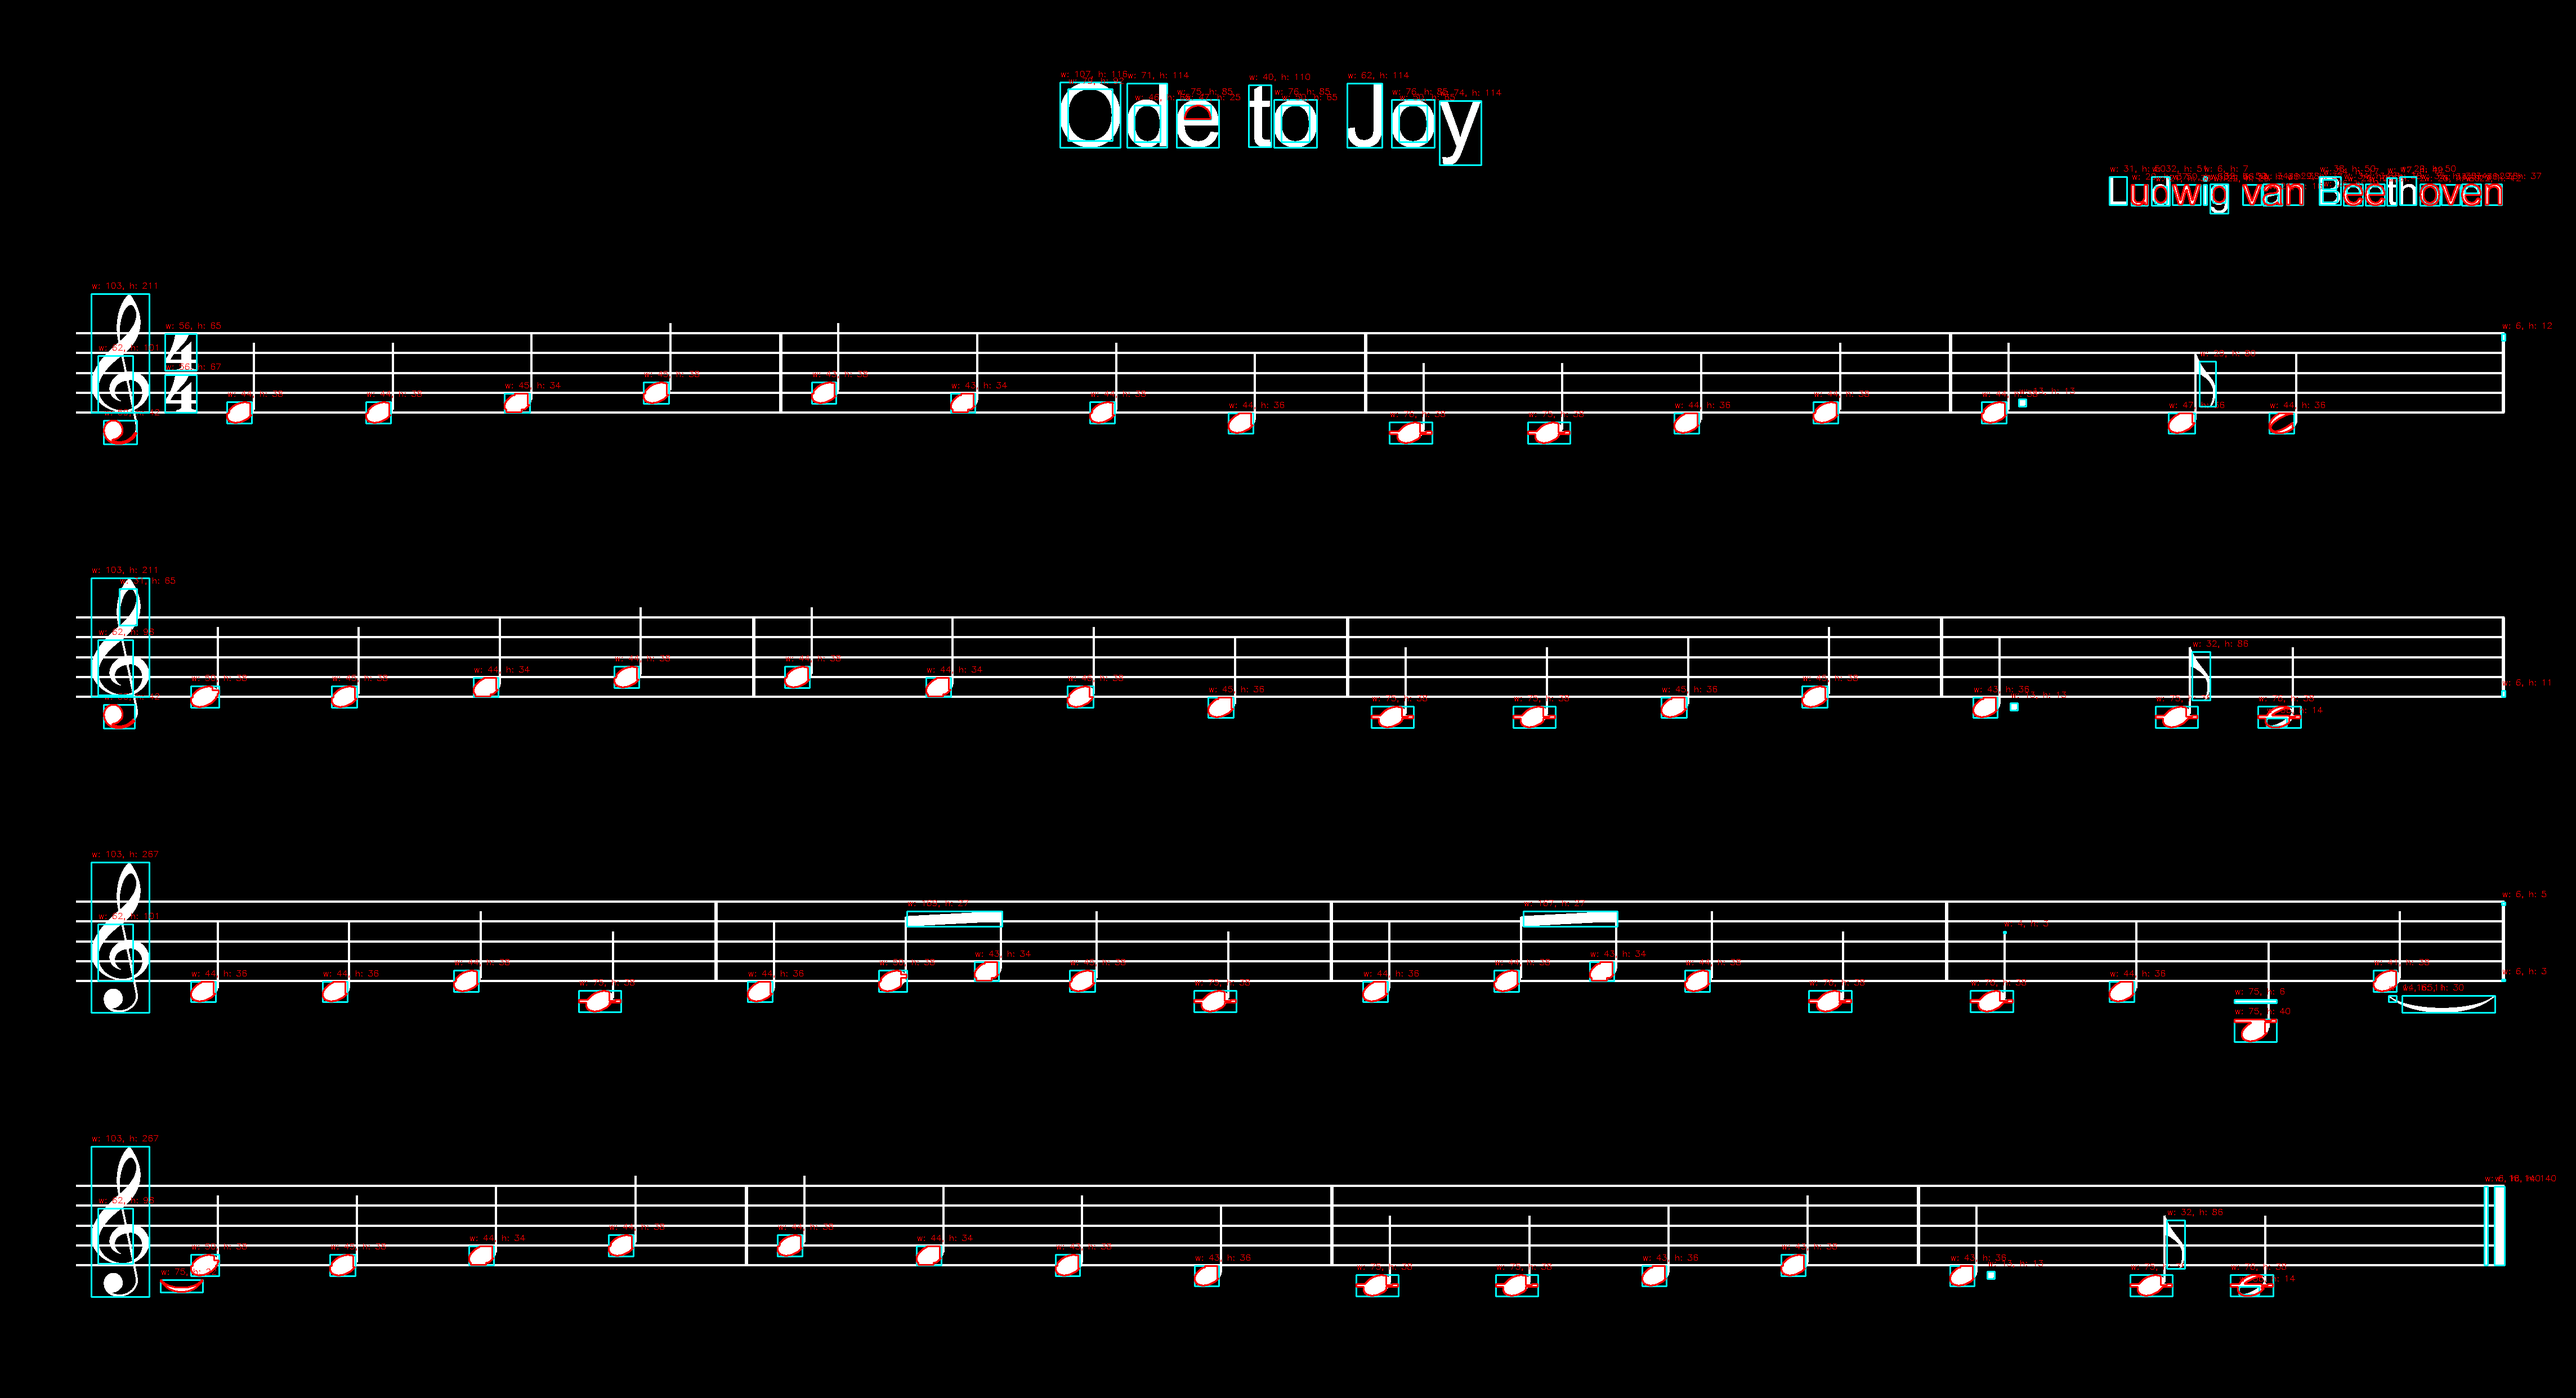
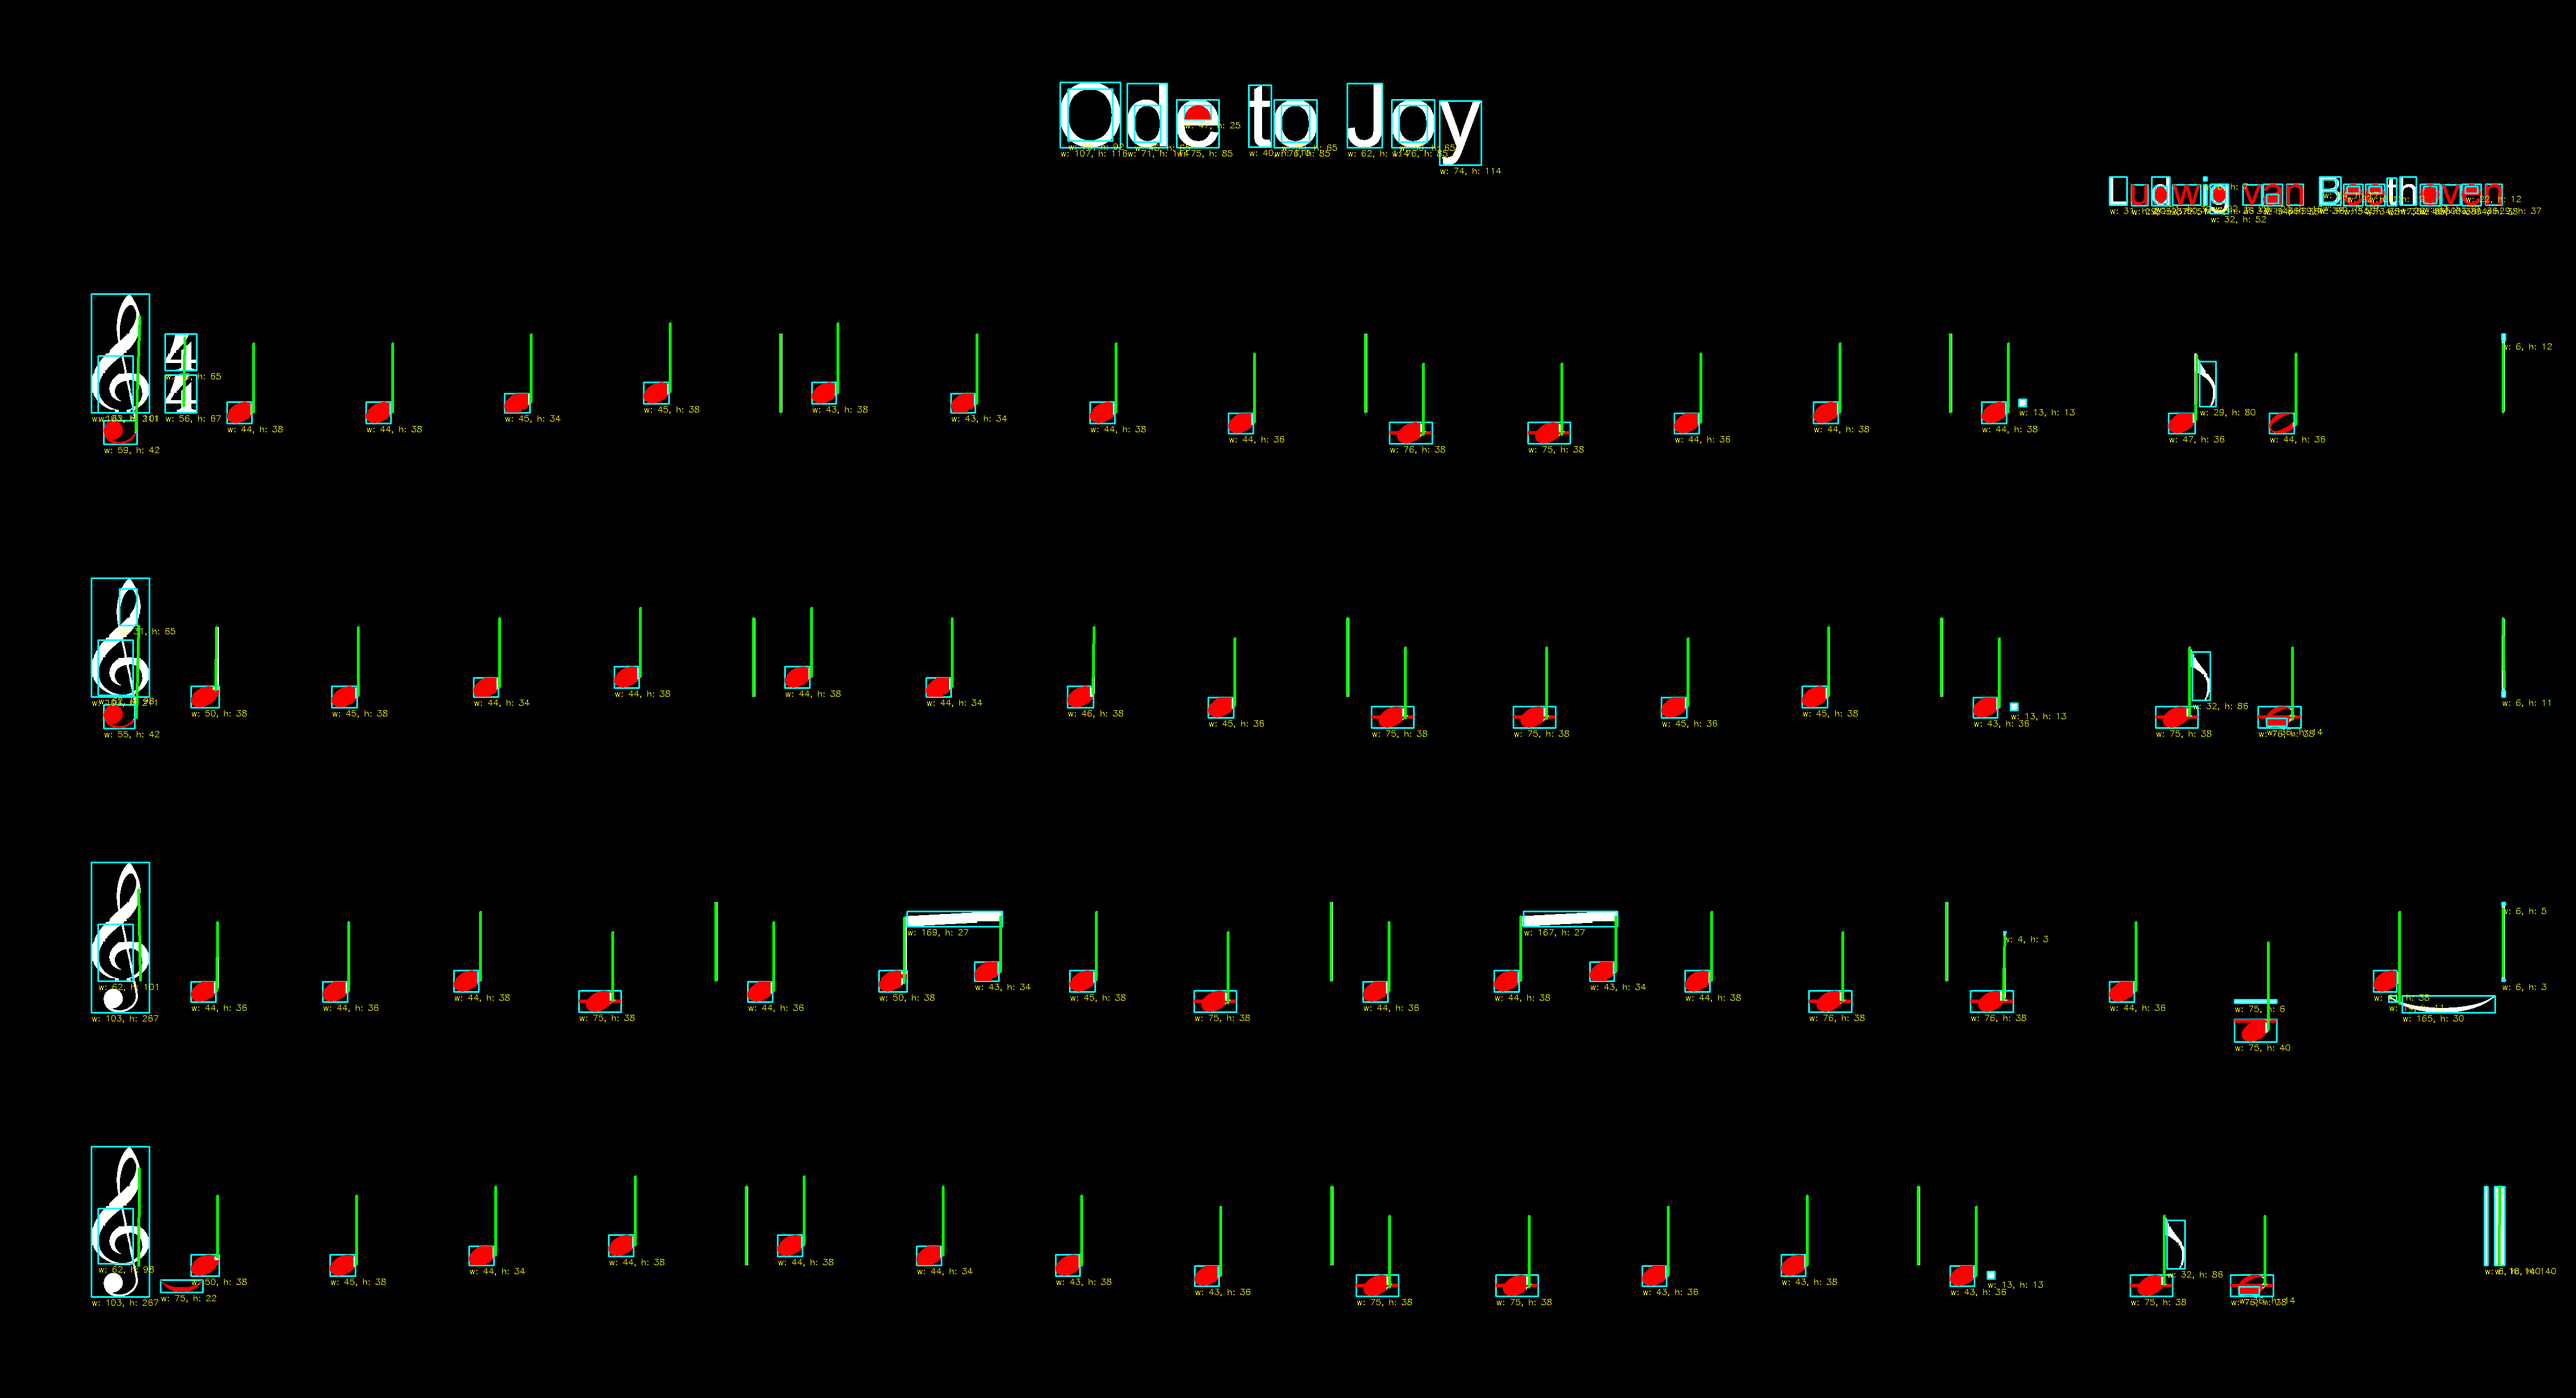
Better coloring

diff --git a/src/orm.py b/src/orm.py
@@ -57,13 +57,13 @@ class ORM:
         # print(self.probable_stems)
 
         # draw_img = cv2.cvtColor(self.inverted_music, cv2.COLOR_GRAY2BGR)
-        # self.draw_lines(draw_img, self.probable_stems)
+        # self.draw_stems(draw_img, self.probable_stems)
         # self.display_image(draw_img)
 
         self.combine_probable_stems()
 
         draw_img = cv2.cvtColor(self.inverted_music, cv2.COLOR_GRAY2BGR)
-        self.draw_lines(draw_img, self.probable_stems)
+        self.draw_stems(draw_img, self.probable_stems)
         self.display_image(draw_img)
 
         cv2.imwrite("detected_stems.png", draw_img)
@@ -229,7 +229,7 @@ class ORM:
         contours, _ = cv2.findContours(
             img, cv2.RETR_TREE, cv2.CHAIN_APPROX_SIMPLE)
 
-        draw_img = cv2.cvtColor(self.inverted_music, cv2.COLOR_GRAY2BGR)
+        draw_img = cv2.cvtColor(self.no_staff_lines, cv2.COLOR_GRAY2BGR)
         # cnt = contours[4]
         # print(cnt)
 
@@ -241,13 +241,16 @@ class ORM:
             cv2.rectangle(draw_img, (x, y), (x + w, y + h),
                           (255, 255, 0), thickness=2)
 
-            cv2.putText(draw_img, f"w: {w}, h: {h}", (x, y - 10),
-                        cv2.FONT_HERSHEY_SIMPLEX, 0.5, (0, 0, 255), thickness=1)
+            cv2.putText(draw_img, f"w: {w}, h: {h}", (x, y + h + 15),
+                        cv2.FONT_HERSHEY_SIMPLEX, 0.5, (0, 255, 255), thickness=1)
 
             if self.fits_note_head(w, h):
+                cv2.fillPoly(draw_img, pts=[cnt], color=(0, 0, 255))
                 note_heads_cnts.append(cnt)
 
-        cv2.drawContours(draw_img, note_heads_cnts, -1, (0, 0, 255), 2)
+        self.draw_stems(draw_img, self.probable_stems)
+
+        # cv2.drawContours(draw_img, note_heads_cnts, -1, (0, 0, 255), 2)
         self.display_image(draw_img)
 
         cv2.imwrite("detected_note_heads.png", draw_img)
@@ -289,7 +292,7 @@ class ORM:
         return width < sh * 2 and width > sh / 5 \
             and height < sh * 1.2 and height > sh / 2
 
-    def draw_lines(self, img, lines):
+    def draw_stems(self, img, lines):
         for stem in lines:
             cv2.line(img, stem.a,
                      stem.b, (0, 255, 0), 3)
